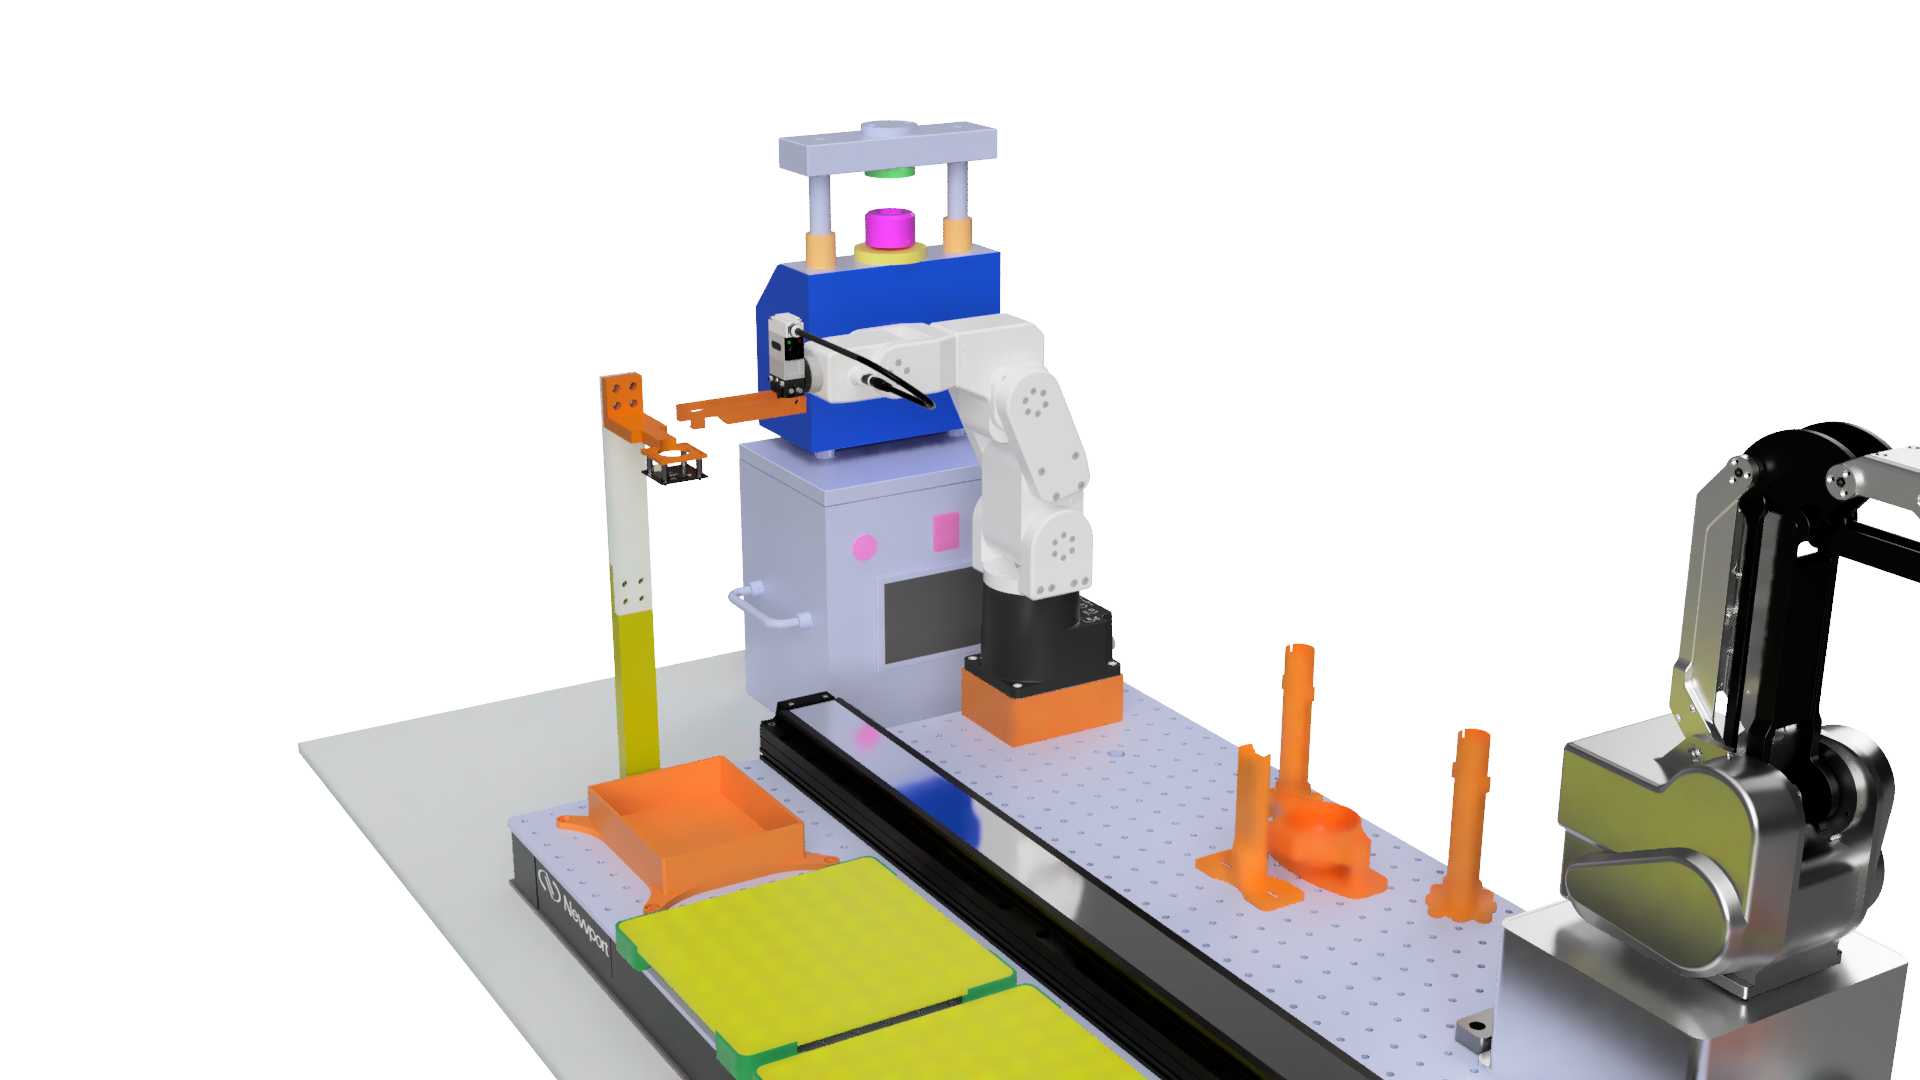
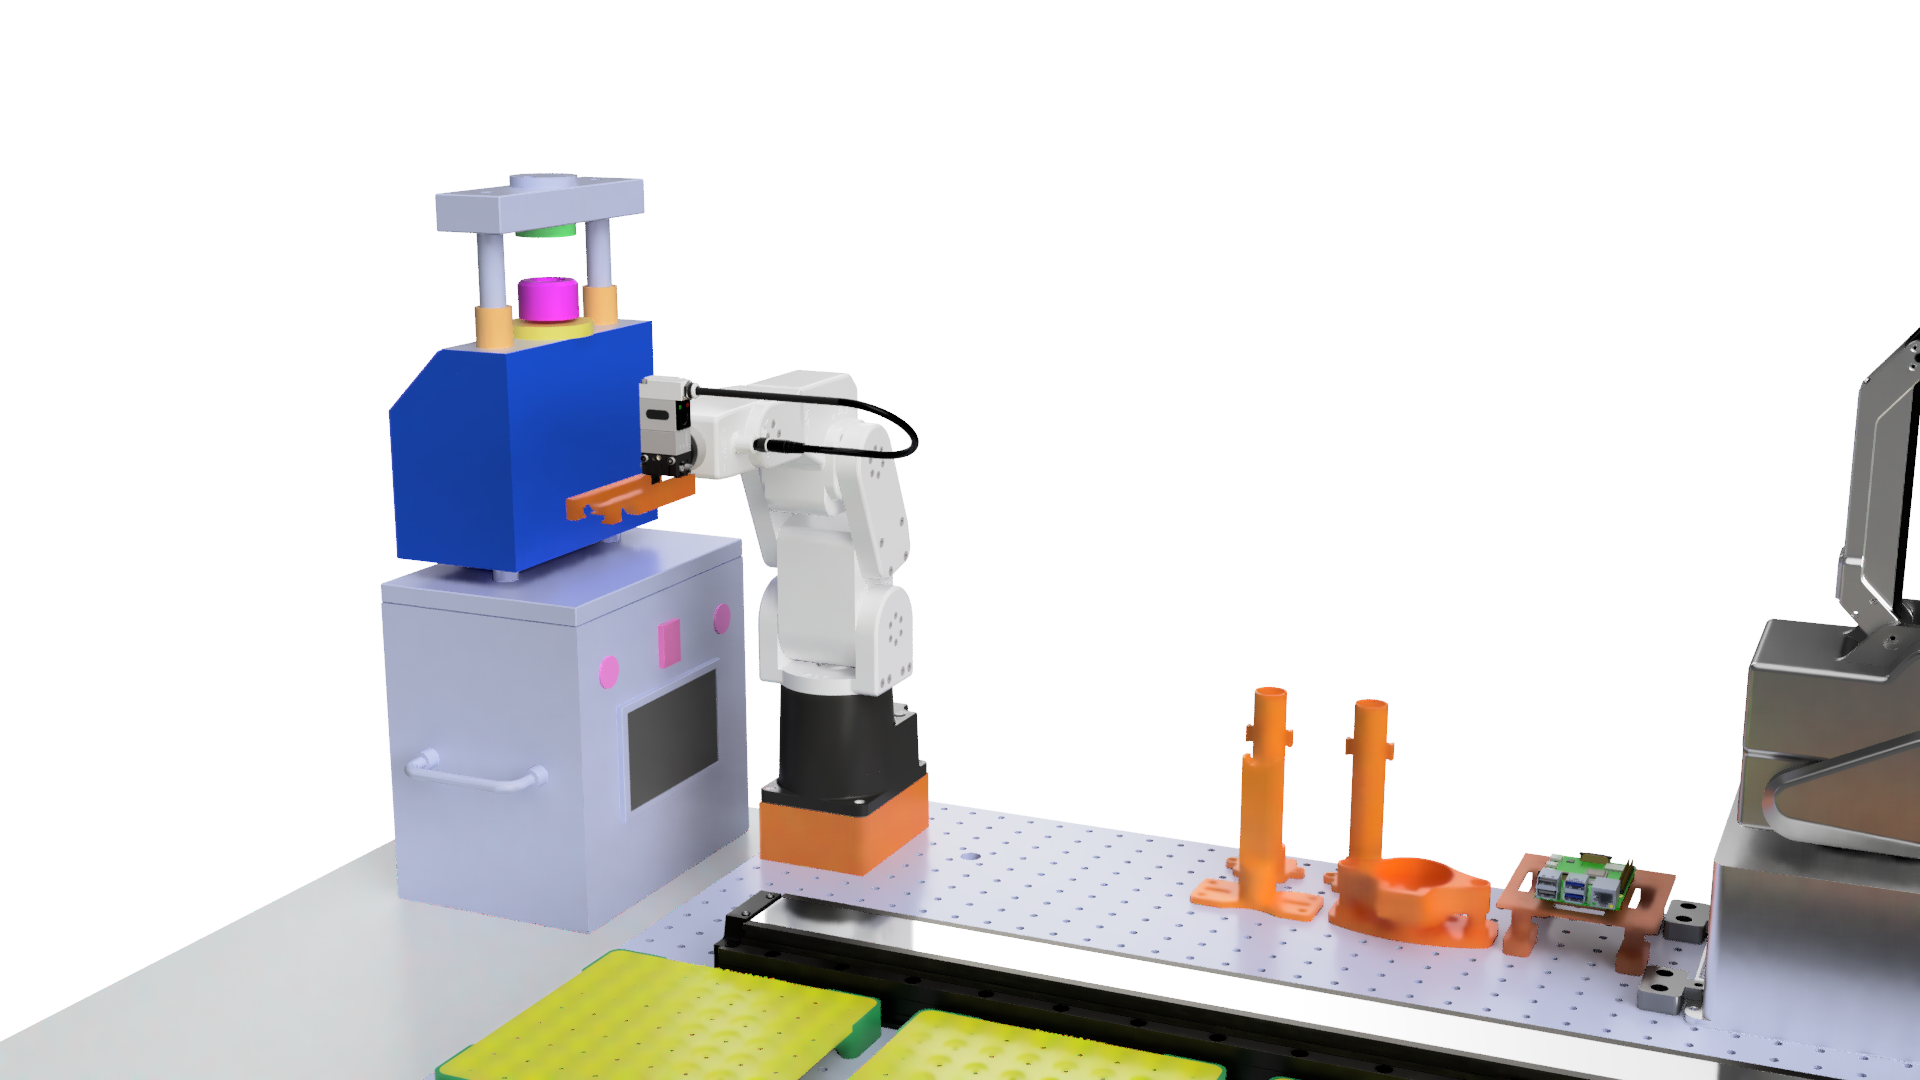
update the rendered images and readme.md

diff --git a/README.md b/README.md
@@ -1,9 +1,10 @@
 # BatteryLab
+
 We aim to build an autonomous laboratory for manufacturing coin-cell batteries. This automated system accelerates the research process of discovering/testing new electrolytes by automatically assembling batches of CR2032 coin-cell batteries. It uses 3 robotic arms, a liquid dispensing module, a linear rail, multiple 3D printed parts, and several cameras to achieve automation.
 
 <figure>
   <img
-  src="figures/overview.PNG"
+  src="figures/Overview.png"
   alt="The BatteryLab Design">
   <figcaption>Figure 1. The physical design of the autonomous BatteryLab</figcaption>
 </figure>
@@ -12,7 +13,7 @@ We aim to build an autonomous laboratory for manufacturing coin-cell batteries. 
 
 > We assume that the hardware has been set up properly as illustrated in Figure 1. We will address the hardware requirement in the next section for users that want to build the system from scratch.
 
-The code base can be separated to two parts. 
+The code base can be separated to two parts.
 
 The first part is the `BatteryLab` directory, which contains code that directly controls the robot, suction system, linear rail, and all the utility functions that rely purely on Python. Users should create a virtual environment with `python -m venv lab_venv` to install the Python dependencies. Do not use conda environment because they work poorly with ROS 2.
 
@@ -41,7 +42,7 @@ You can ssh into each Raspberry Pi to launch each ROS 2 node or use the launch f
 
 > The launch file and the ROS 2 packages are still under development.
 
-Start all the necessary ROS 2 services by running the following commands on specified machines. Note that each of them should be run on different machines.
+Start all the necessary ROS 2 services by running the following commands on specified machines. Note that each of them should be run on different Raspberry Pis.
 
 ```bash
 # on the rail Raspberry Pi
@@ -63,7 +64,13 @@ ros2 run assembly_robot liquid_robot
 ros2 run assembly_robot crimper_robot
 ```
 
-We will develop a web-based UI for easier control with a graphical interface.
+Alternatively, you can run the general command-line app to run the whole assembly process with just one command.
+
+```bash
+ros2 run assembly_robot app
+```
+
+We plan to develop a web-based UI for easier control with a graphical interface.
 
 ## Hardware Requirements
 
@@ -78,7 +85,6 @@ We use the following hardware items. You do not need to use the identical items 
 - 2 Raspberry Pi 5s and 1 Raspberry Pi 4.
 - 1 [TOB-DF-160](https://www.tobmachine.com/coin-cell-crimping-machine_c134?gad_source=1&gclid=Cj0KCQjwrKu2BhDkARIsAD7GBov9F47aTY1ZMRAuWiKtbsL2JQtdZlmeonXlnT11z4B-JgYZ6LxH1a0aAs9AEALw_wcB) Battery Crimper.
 - Many self-designed 3D printable parts.
-
 
 ### The Assembly Robot
 
@@ -116,6 +122,7 @@ We use a second Meca500 to move the assembled battery to a crimper and then move
 ## Known Issues
 
 ### 1. prebuilt cv_bridge package is not compatible with Numpy 2.0
+
 <a name="known-issue-1"></a>
 We added a submodule to build the cv_bridge from source to fix this problem. You need to install the Boost Python library to build this package. The required packages can be installed by the following commands.
 
